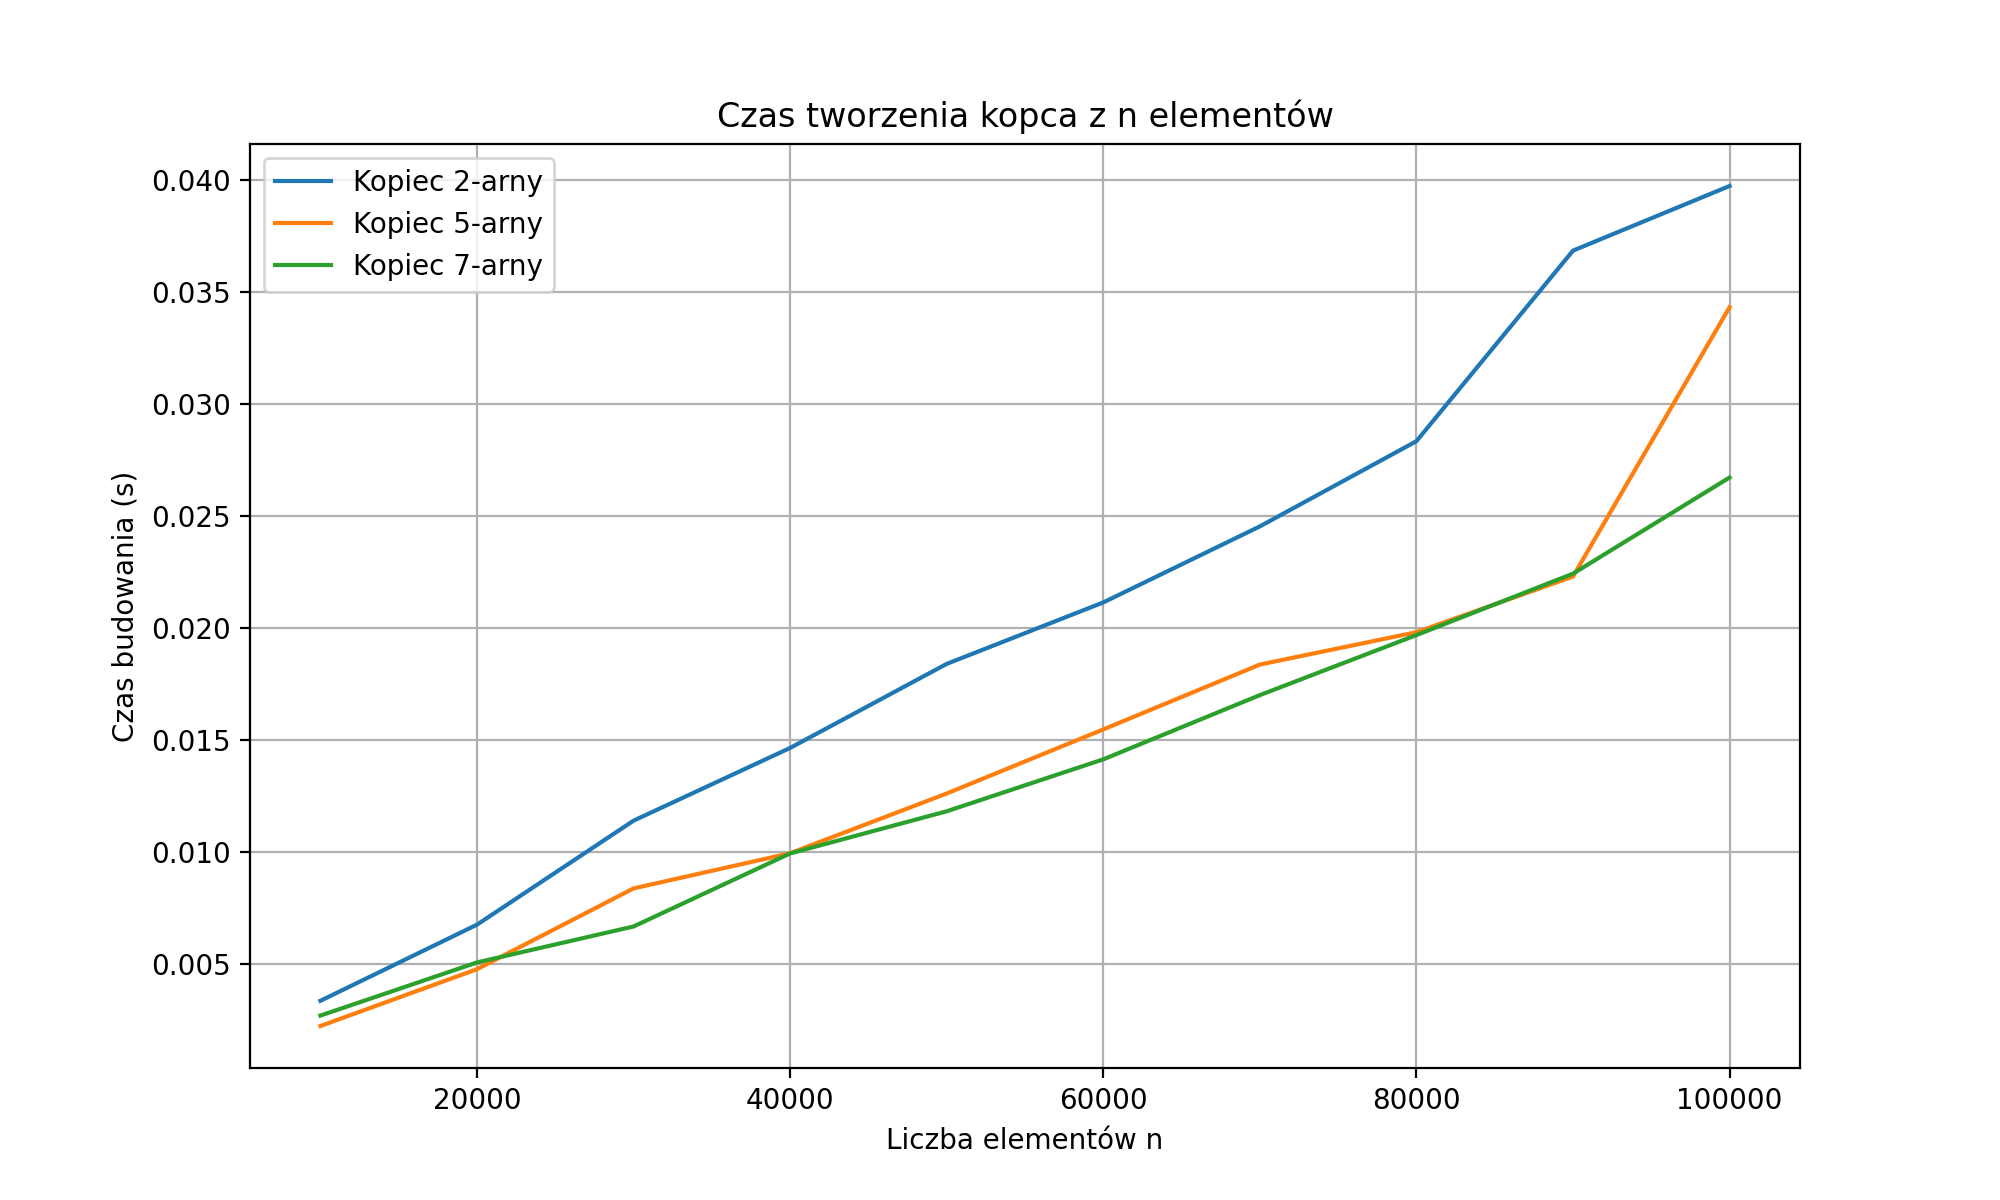
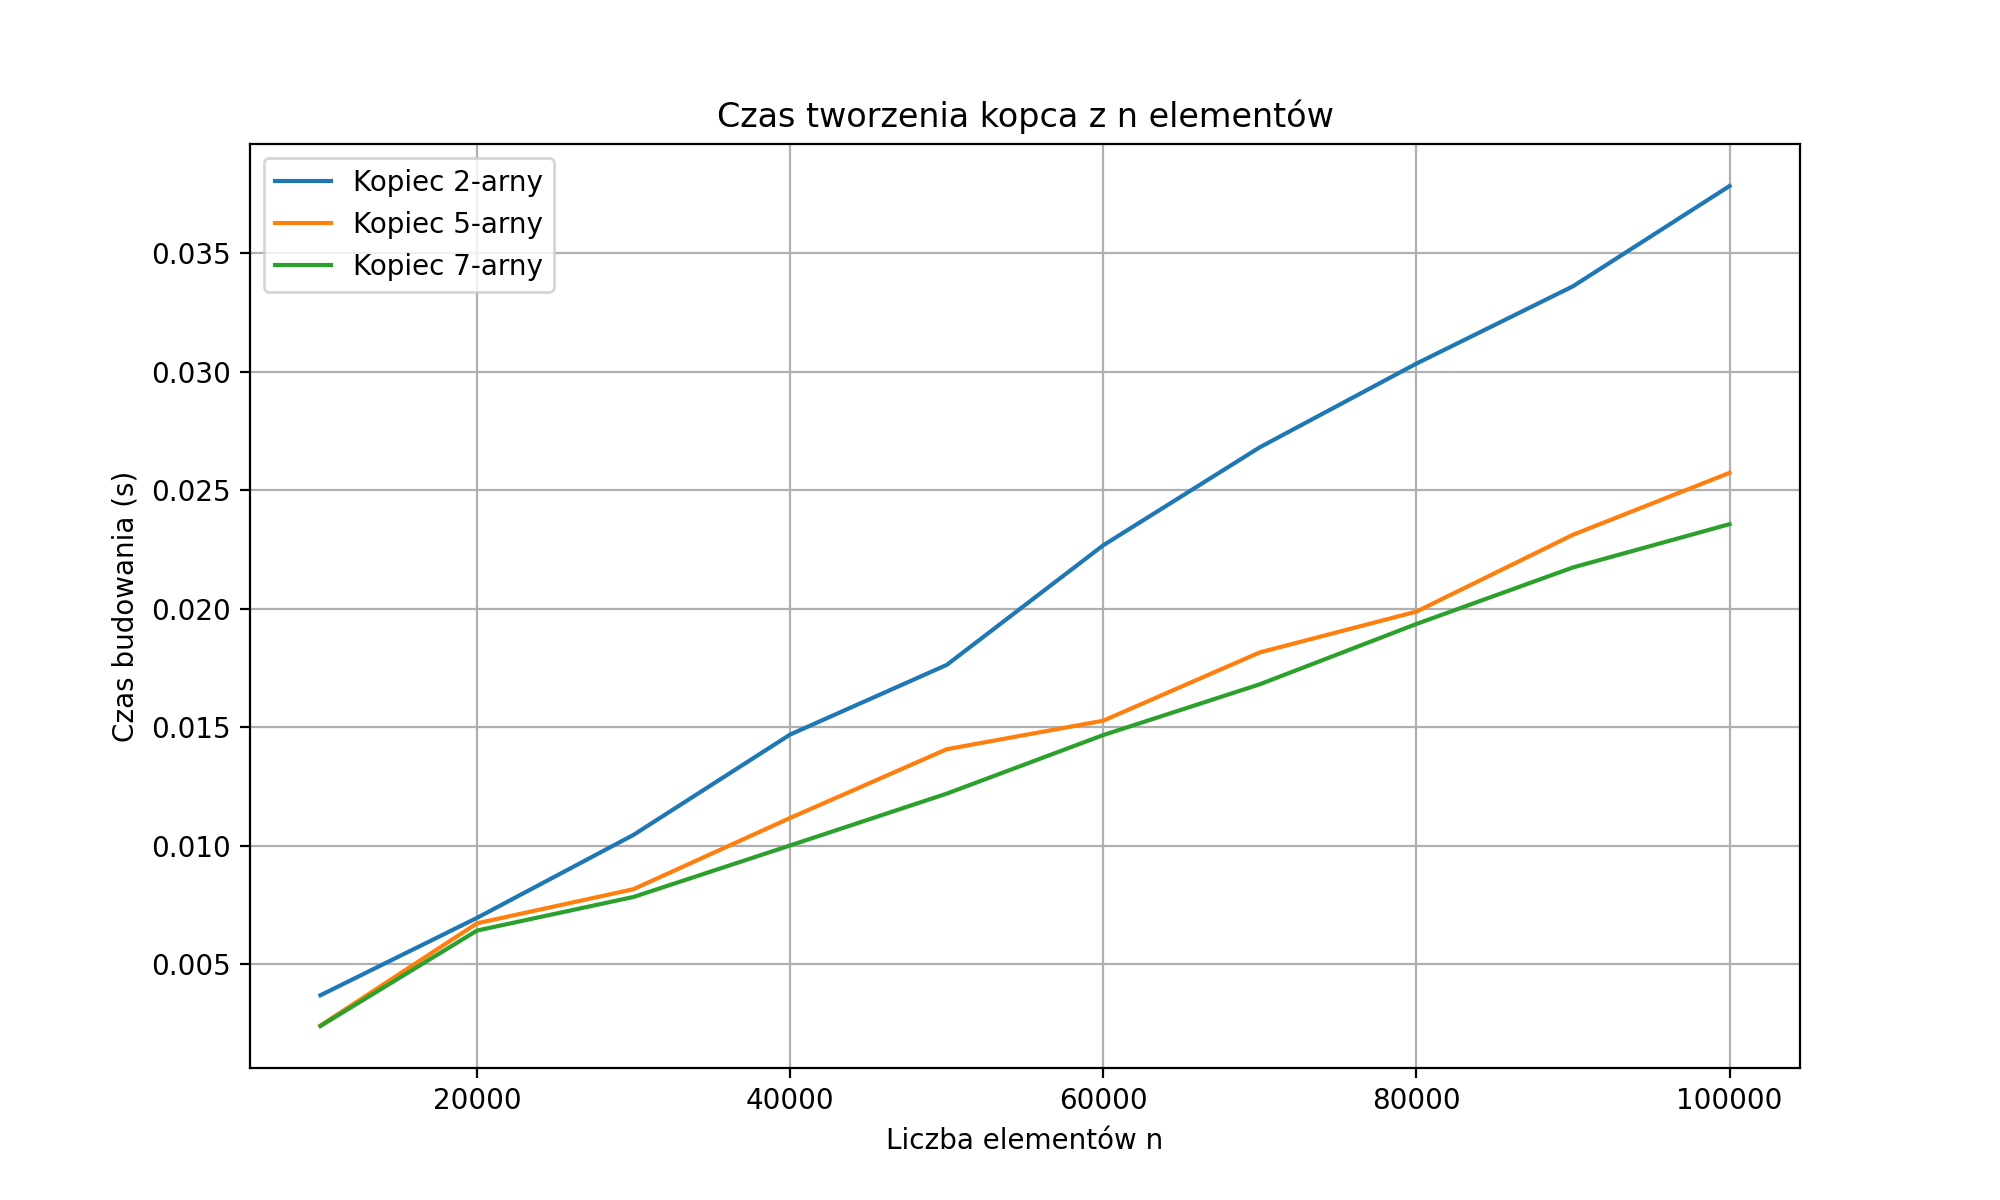
Aktualizacja sekcji testowej heaps.py, aby było widać relacje rodzic/dziecko

diff --git a/LAB3_KOPCE/heaps.py b/LAB3_KOPCE/heaps.py
@@ -134,23 +134,34 @@ class SevenHeap(KHeap):
 # Sekcja testowa — uruchomi się tylko jeśli plik odpalasz ręcznie
 # (np. "python3 heaps.py")
 # Nie będzie się uruchamiać przy imporcie w benchmark.py
+def show_parent_child(heap):
+    """Wyświetla wszystkie relacje rodzic → dziecko w kopcu."""
+    d = heap.k       # arność kopca (2, 5 lub 7)
+    arr = heap.data  # lista przechowująca kopiec
+
+    print("Relacje rodzic → dziecko:")
+    for i in range(1, len(arr)):
+        parent_index = (i - 1) // d
+        print(f"{arr[parent_index]} → {arr[i]}")
 
 if __name__ == "__main__":
-    # Testowy kopiec binarny
-    h = BinaryHeap()
 
-    # Wstawiamy kilka elementów
-    h.insert(5)
-    h.insert(2)
-    h.insert(8)
-    h.insert(1)
-    h.insert(3)
+    data = [5, 2, 8, 1, 3, 10, 14]
 
-    print("Kopiec po wstawieniach:")
-    h.show()
+    heap_classes = [
+        ("BinaryHeap (2-arny)", BinaryHeap),
+        ("FiveHeap (5-arny)", FiveHeap),
+        ("SevenHeap (7-arny)", SevenHeap)
+    ]
 
-    # Usuwamy korzeń
-    print("\nUsunięty korzeń:", h.pop())
+    for name, HeapClass in heap_classes:
+        print(f"=== {name} ===")
 
-    print("\nKopiec po usunięciu:")
-    h.show()
+        h = HeapClass()					# tworzymy kopiec danego typu
+        for x in data:
+            h.insert(x)					# wstawiamy te same liczby
+
+        h.show()						# wyświetlamy strukturę kopca
+        show_parent_child(h)			# pokazujemy relacje rodzic → dziecko
+        print()							# pusty wiersz dla czytelności
+

diff --git a/LAB3_KOPCE/benchmark.py b/LAB3_KOPCE/benchmark.py
@@ -42,11 +42,12 @@ for n in Ns:
     print(f"  → n = {n}")
 
     # --- BinaryHeap ---
-    h2 = BinaryHeap()
-    start = time.time()
-    for x in numbers[:n]:
-        h2.insert(x)
-    build_times_2.append(time.time() - start)
+    h2 = BinaryHeap()                           # Tworzymy nowy kopiec binarny (2-arny)
+    start = time.time()                         # Zapisujemy aktualny czas przed rozpoczęciem wstawiania
+    for x in numbers[:n]:                       # Wstawiamy pierwsze n elementów z listy numbers do kopca
+        h2.insert(x)                            # Każde wywołanie h2.insert(x) zachowuje własność kopca (min-heap)
+    build_times_2.append(time.time() - start)   # Obliczamy czas wstawiania wszystkich n elementów i zapisujemy go do listy build_times_2 dla późniejszego wykresu
+
 
     # --- FiveHeap ---
     h5 = FiveHeap()
